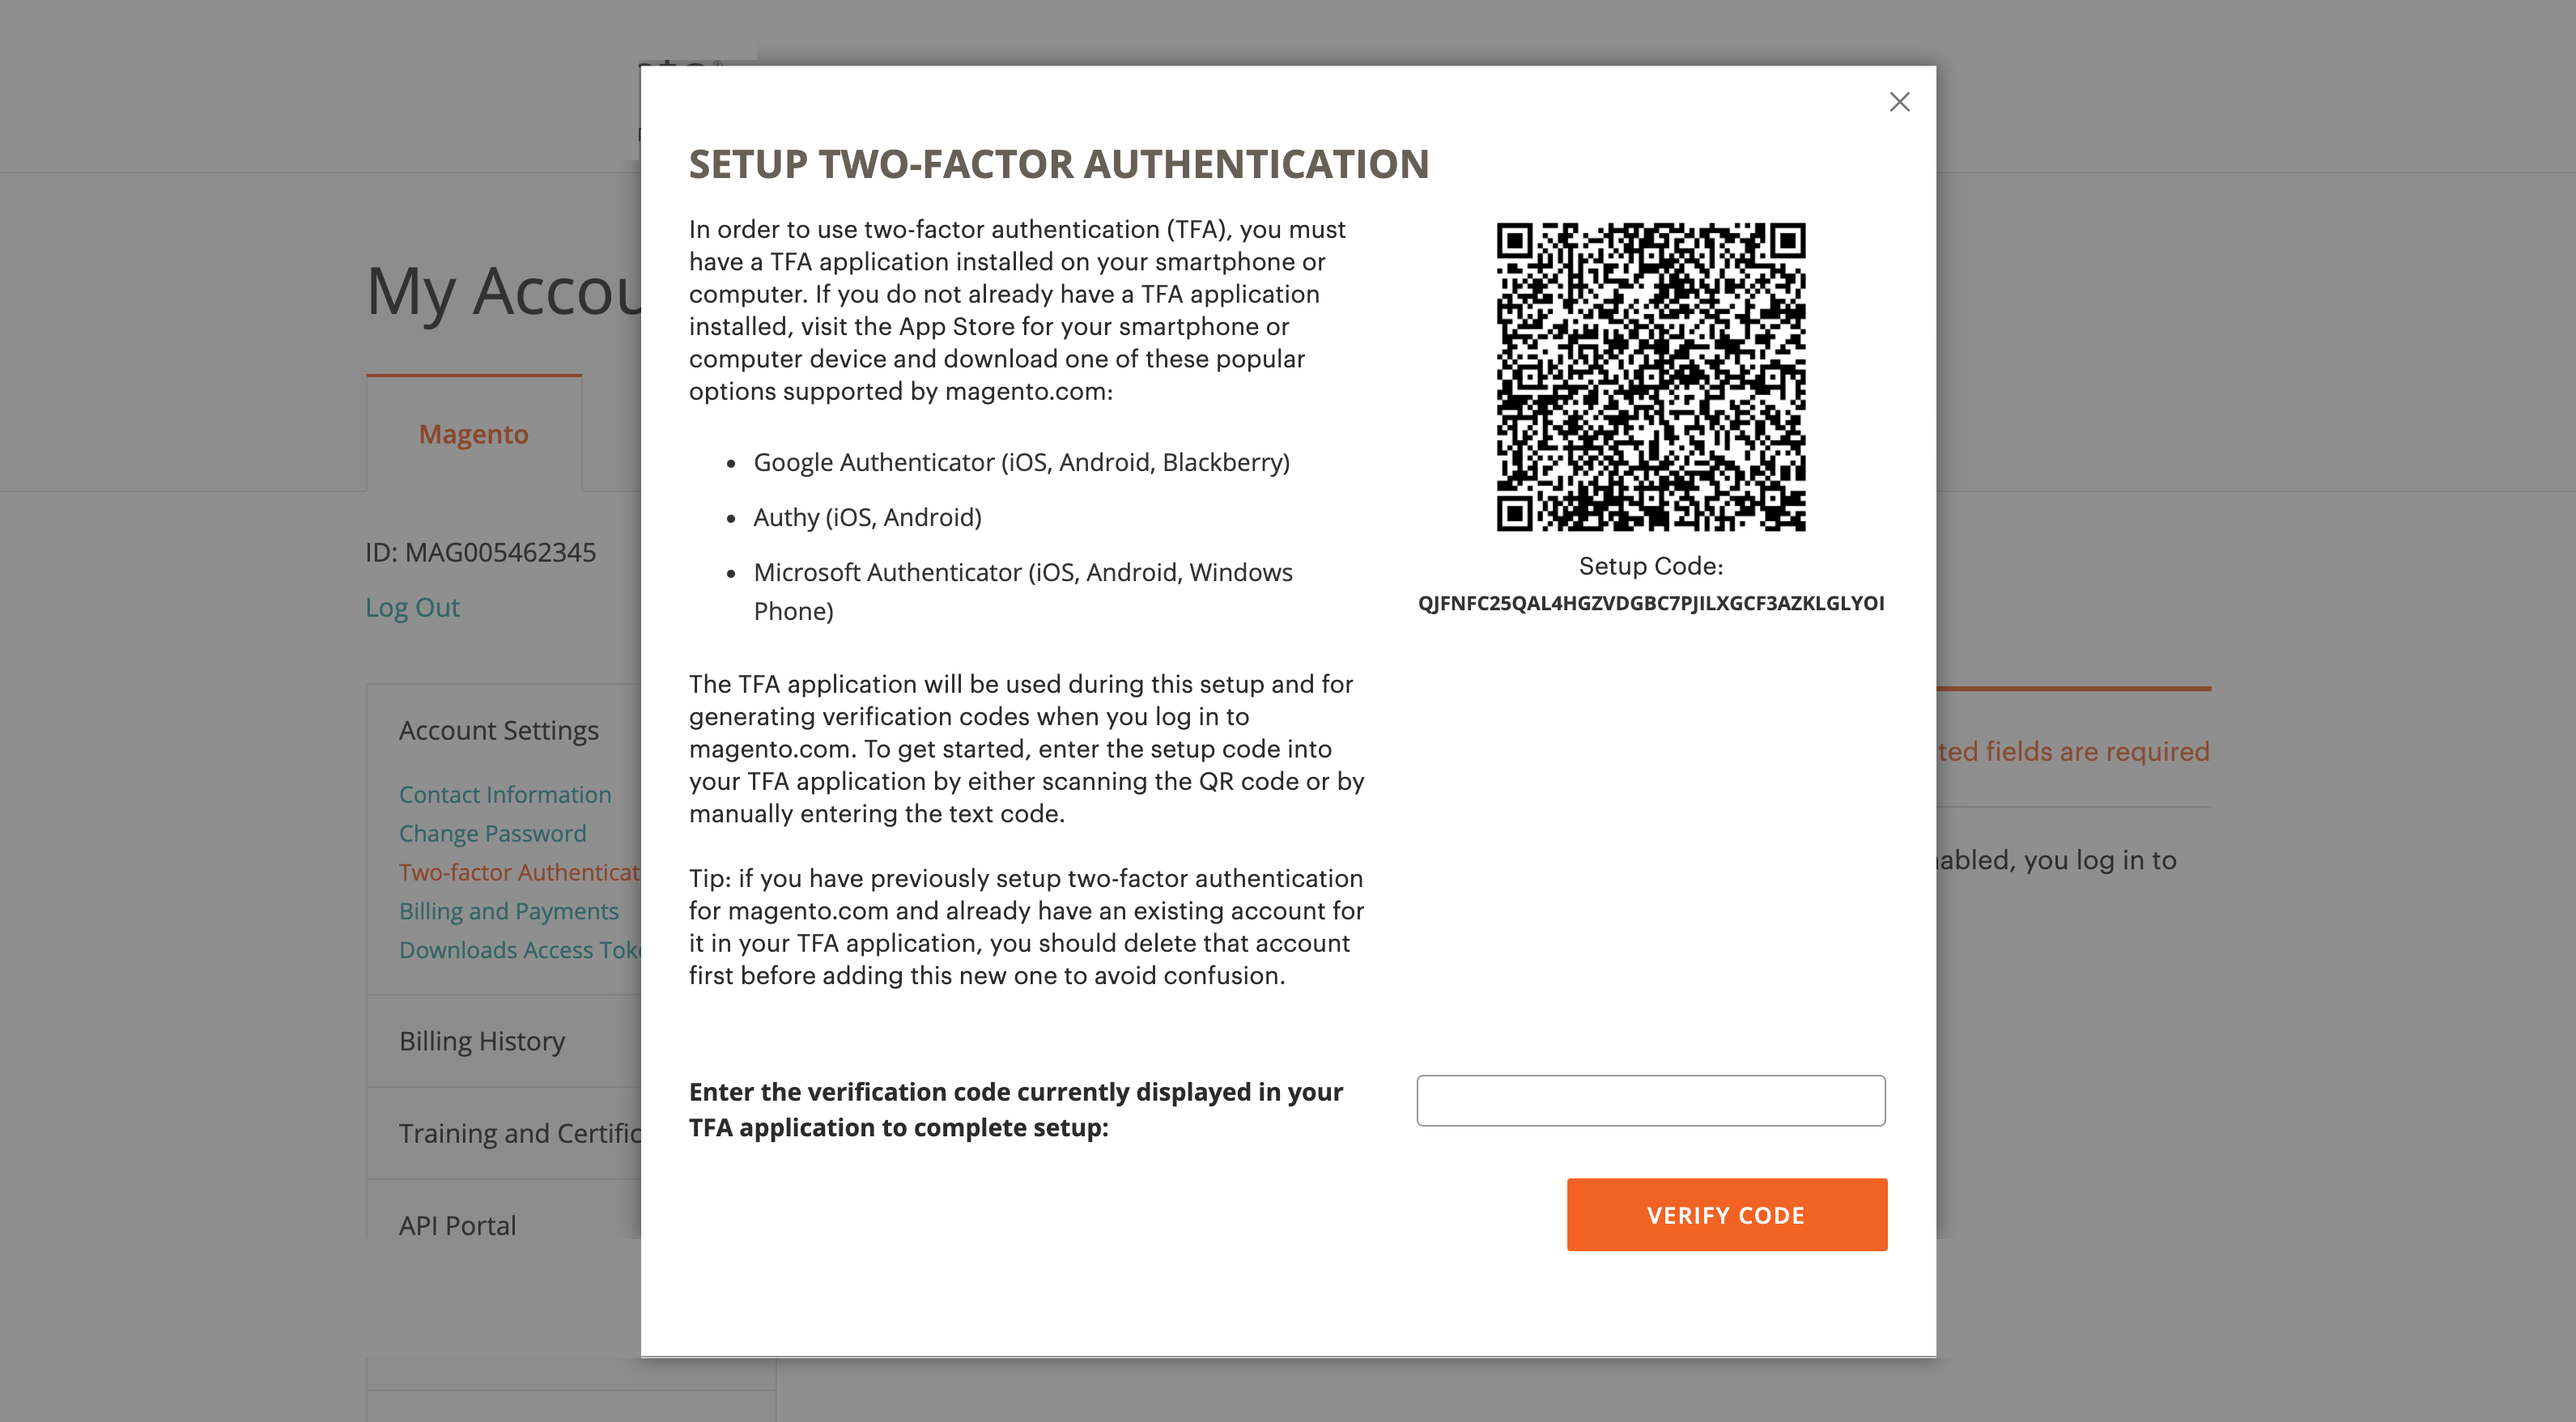
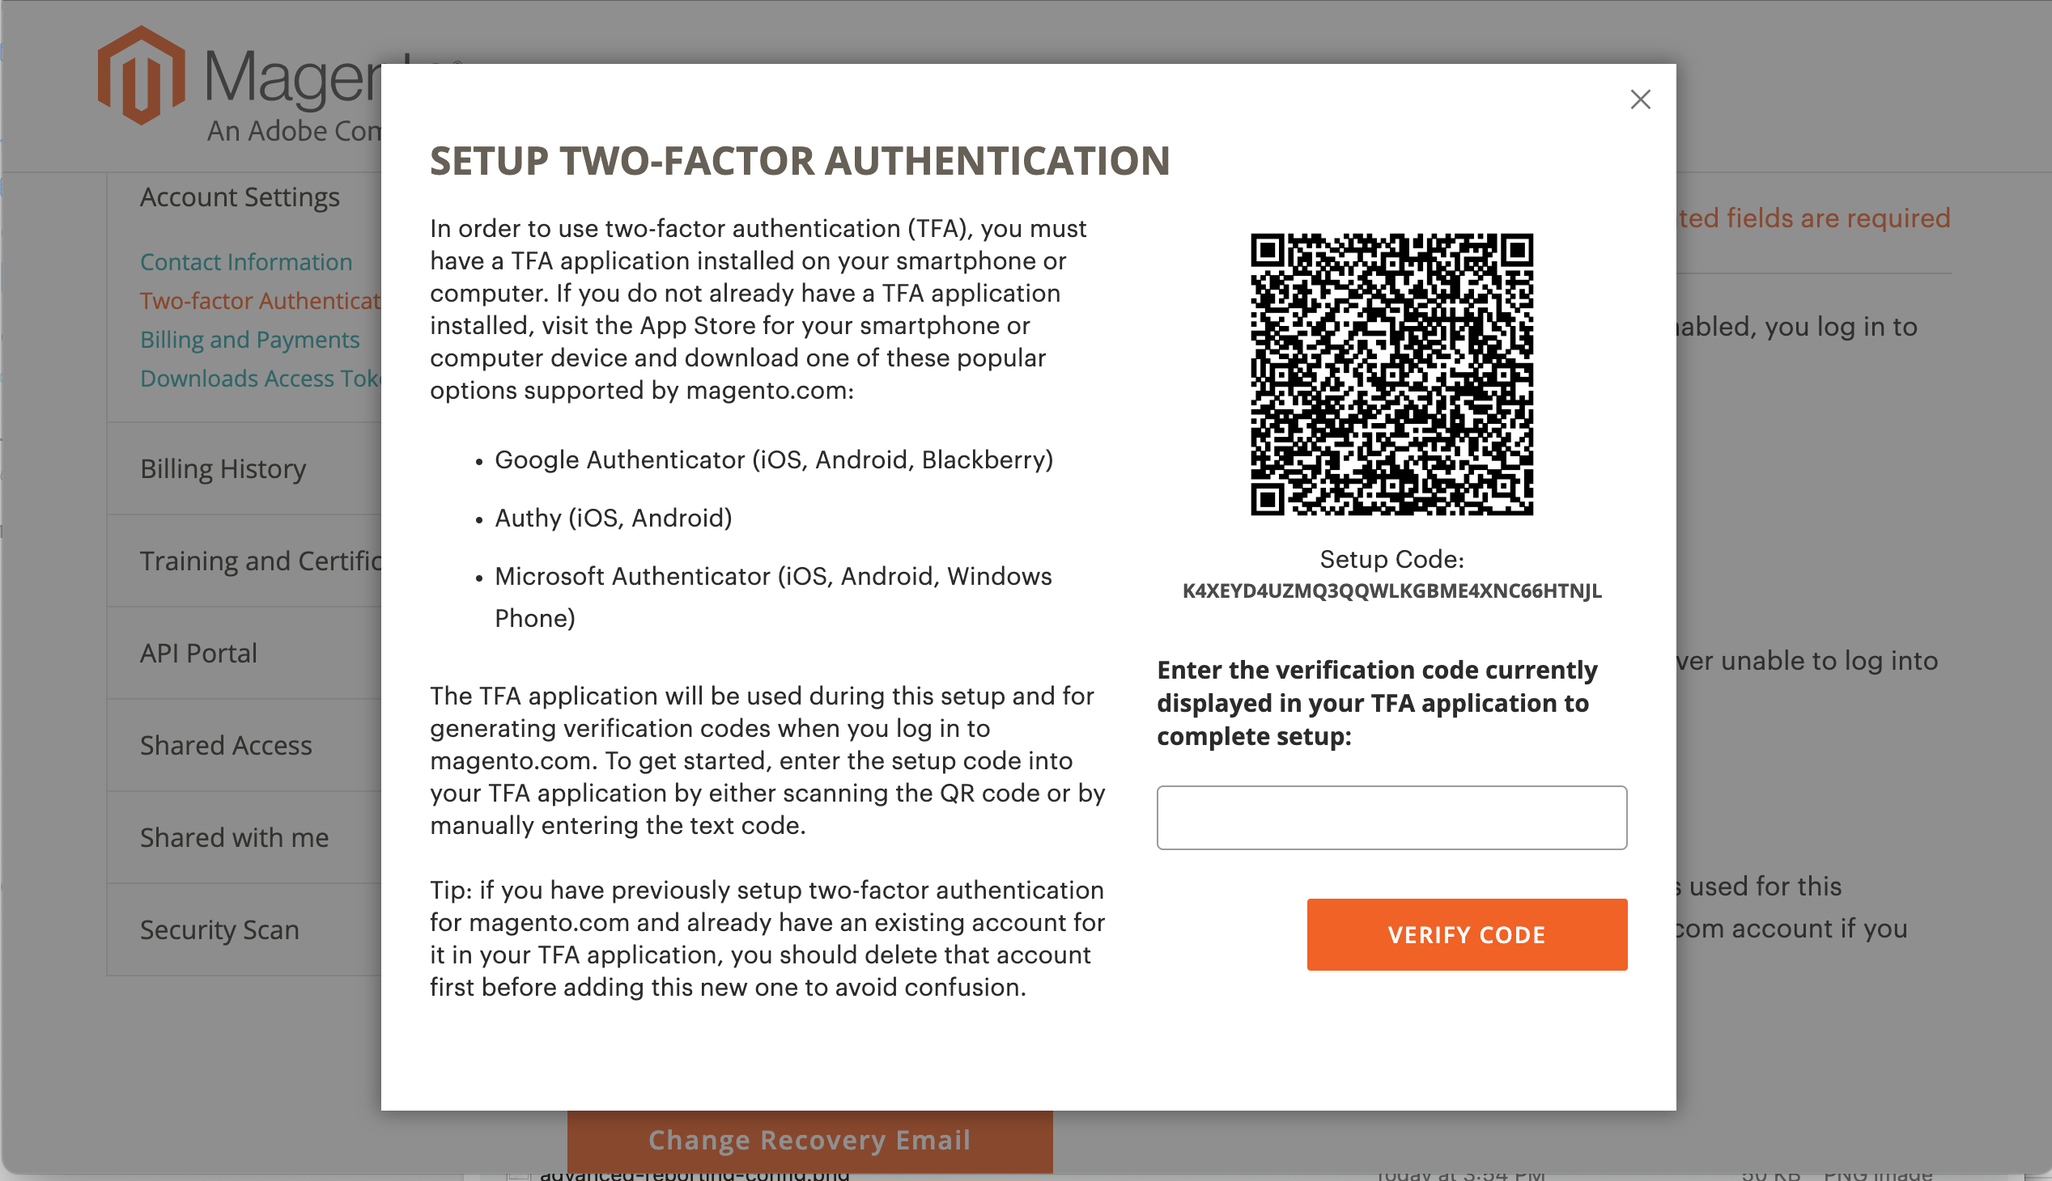
COMDOX-313: Update 2fa instructions # Update 2fa screens to match new authentication workflow (IMS)

diff --git a/help/getting-started/commerce-account-secure.md b/help/getting-started/commerce-account-secure.md
@@ -31,23 +31,27 @@ In order to use TFA, you must have a TFA application installed on your personal 
 
 1. Click **[!UICONTROL Enable]** to begin the two-factor authentication setup process.
 
-1. Reenter your **[!UICONTROL Password]** and click **[!UICONTROL Verify Password]** to continue.
+1. Enter the **[!UICONTROL Verification Code** sent to your device and click **[!UICONTROL Verify Code]** to continue.
 
-   ![Verify password](./assets/2fa-verify.png)<!-- zoom -->
+   ![Enter verification code](./assets/2fA-verification-code-prompt.png)<!-- zoom -->
 
 1. Open the two-factor authentication application you downloaded and installed on your personal device.
 
-1. Enter the **[!UICONTROL Setup Code]** into your two-factor authentication application.
+1. On the [!UICONTROL SETUP TWO-FACTOR AUTHENTICATION] form, use the **[!UICONTROL Setup Code]** to add Adobe Commerce to your TFA application.
 
-   You can either scan the QR code using the TFA application or manually enter the code into your TFA application. This code syncs your TFA application with your [!DNL Commerce] account and allow your TFA application to generate verification codes that the system accepts.
+   ![Add Adobe Commerce to TFA app](./assets/commerce-account-2fa-setup-app.png)<!-- zoom -->
+
+   You can add the code by scanning the QR code using the TFA application, or manually entering it. This code links your TFA application with your [!DNL Commerce] account and enables the permissions for the TFA app to generate verification codes for secure account access.
+
+1. Complete the setup.
+
+   -  On the [!UICONTROL SETUP TWO FACTOR-AUTHENTICATION] form, enter the verification code from your two-factor authentication application.
+   
+   - Select **[!UICONTROL Verify Code]**.
 
    >[!NOTE]
    >
    >Verification Codes are constantly expiring and regenerated by your TFA application for security purposes, so **_always_** use the one that is currently displayed.
-
-1. With your two-factor authentication application now synced to your [!DNL Commerce] account, enter the **[!UICONTROL Verification Code]** displayed in your two-factor authentication application and click **[!UICONTROL Verify Code]** to continue.
-
-   ![Setup 2FA app](./assets/commerce-account-2fa-setup-app.png)<!-- zoom -->
 
 1. Save the **[!UICONTROL Recovery Codes]** presented in a safe and accessible place.
 
